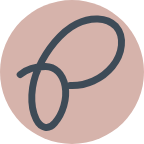
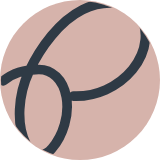
Assinatura de e-mail: símbolo do círculo cortado, ícones (WhatsApp, Instagram, site, e-mail) e campos editáveis
Claude-Session: https://claude.ai/code/session_01XUb1V68GFiNpZWkJhbcr9d

diff --git a/public/assinatura.html b/public/assinatura.html
@@ -7,20 +7,24 @@
 <title>Assinatura de e-mail · Planê</title>
 <link rel="icon" href="./favicon.ico?v=6">
 <style>
-  :root { --azul: #3e4b57; --rose: #a88a80; --rosa: #d6b3ab; --blush: #f4e8e5; --papel: #f5f1ee; --muted: #6b7680; }
+  :root { --azul: #3e4b57; --rose: #a88a80; --rosa: #d6b3ab; --blush: #f4e8e5; --papel: #f5f1ee; --muted: #6b7680; --line: #eadfdb; }
   * { box-sizing: border-box; }
   body { margin: 0; background: var(--papel); color: var(--azul); font-family: Poppins, 'Segoe UI', Helvetica, Arial, sans-serif; }
-  main { max-width: 760px; margin: 0 auto; padding: 48px 16px 64px; display: flex; flex-direction: column; gap: 28px; }
+  main { max-width: 760px; margin: 0 auto; padding: 48px 16px 64px; display: flex; flex-direction: column; gap: 24px; }
   h1 { margin: 0; font-size: 30px; letter-spacing: -0.02em; }
   h1 em { color: var(--rose); font-weight: 400; }
   .box { background: #fff; border-radius: 20px; padding: 28px; box-shadow: 0 18px 40px -30px rgba(47, 58, 69, .5); }
-  .label { font-size: 12px; font-weight: 600; letter-spacing: .14em; text-transform: uppercase; color: var(--rose); margin: 0 0 16px; }
+  .label { font-size: 12px; font-weight: 600; letter-spacing: .14em; text-transform: uppercase; color: var(--rose); margin: 0 0 18px; }
+  .fields { display: grid; grid-template-columns: repeat(3, minmax(0, 1fr)); gap: 14px; }
+  @media (max-width: 640px) { .fields { grid-template-columns: 1fr; } }
+  .fields label { display: flex; flex-direction: column; gap: 6px; font-size: 13px; font-weight: 600; }
+  .fields input { font: inherit; font-size: 14px; font-weight: 400; color: var(--azul); padding: 11px 14px; border: 1px solid var(--line); border-radius: 12px; background: var(--papel); }
+  .preview { padding: 26px; border: 1px dashed var(--line); border-radius: 16px; overflow-x: auto; }
   .btn { display: inline-flex; align-items: center; gap: 8px; border: 0; border-radius: 999px; background: var(--azul); color: #fff; font: inherit; font-weight: 600; font-size: 15px; padding: 14px 26px; cursor: pointer; }
   .btn.done { background: var(--rose); }
-  ol { margin: 0; padding-left: 22px; line-height: 1.7; }
-  ol b { color: var(--azul); }
-  .muted { color: var(--muted); font-size: 14px; line-height: 1.6; margin: 0; }
   .row { display: flex; flex-wrap: wrap; align-items: center; gap: 14px; margin-top: 20px; }
+  ol { margin: 0; padding-left: 22px; line-height: 1.7; }
+  .muted { color: var(--muted); font-size: 14px; line-height: 1.6; margin: 0; }
 </style>
 </head>
 <body>
@@ -28,58 +32,79 @@
   <h1>assinatura de <em>e-mail</em></h1>
 
   <div class="box">
-    <p class="label">prévia</p>
-    <!-- a assinatura (só tabelas e estilos na linha, como o Gmail aceita) -->
-    <div id="sig">
-      <table cellpadding="0" cellspacing="0" border="0" style="border-collapse:collapse;font-family:Helvetica,Arial,sans-serif;color:#3e4b57;">
-        <tr>
-          <td style="padding:0 18px 0 0;vertical-align:middle;">
-            <a href="https://useplane.com.br" style="text-decoration:none;"><img src="https://useplane.com.br/marca/assinatura.png" width="64" height="64" alt="Planê" style="display:block;width:64px;height:64px;border:0;"></a>
-          </td>
-          <td style="padding:0 0 0 18px;border-left:2px solid #d6b3ab;vertical-align:middle;">
-            <div style="font-size:17px;font-weight:bold;letter-spacing:-0.2px;line-height:1.3;color:#3e4b57;">Laís</div>
-            <div style="font-size:13px;line-height:1.4;color:#a88a80;">criadora do Planê · gestão para quem projeta</div>
-            <div style="font-size:13px;line-height:1.7;padding-top:6px;color:#6b7680;">
-              <a href="https://useplane.com.br" style="color:#3e4b57;text-decoration:none;font-weight:bold;">useplane.com.br</a>
-              <span style="color:#d6b3ab;">&nbsp;·&nbsp;</span>
-              <a href="https://instagram.com/sou.plane" style="color:#6b7680;text-decoration:none;">@sou.plane</a>
-              <span style="color:#d6b3ab;">&nbsp;·&nbsp;</span>
-              <a href="mailto:equipe.plane@gmail.com" style="color:#6b7680;text-decoration:none;">equipe.plane@gmail.com</a>
-            </div>
-          </td>
-        </tr>
-      </table>
+    <p class="label">seus dados</p>
+    <div class="fields">
+      <label>Nome <input id="nome" value="Laís"></label>
+      <label>Linha de baixo <input id="cargo" value="criadora do Planê"></label>
+      <label>WhatsApp (com DDD) <input id="wpp" inputmode="tel" placeholder="(31) 99999-9999"></label>
     </div>
+  </div>
+
+  <div class="box">
+    <p class="label">prévia</p>
+    <div class="preview"><div id="sig"></div></div>
     <div class="row">
       <button class="btn" id="copy" type="button">copiar assinatura</button>
-      <p class="muted">Copia já com o logo, as cores e os links.</p>
+      <p class="muted">Copia com o logo, os ícones e os links.</p>
     </div>
   </div>
 
   <div class="box">
     <p class="label">como colocar no Gmail (computador)</p>
     <ol>
-      <li>Toque em <b>copiar assinatura</b> aqui em cima.</li>
-      <li>Abra o Gmail no computador e clique na <b>engrenagem</b> (canto de cima, à direita) → <b>Ver todas as configurações</b>.</li>
-      <li>Na aba <b>Geral</b>, desça até <b>Assinatura</b> → <b>Criar nova</b> → dê o nome <b>Planê</b>.</li>
-      <li>Clique na caixa de texto ao lado e cole (<b>Ctrl + V</b>, ou <b>Cmd + V</b> no Mac).</li>
-      <li>Logo abaixo, em <b>Padrões de assinatura</b>, escolha <b>Planê</b> em “para novos e-mails” e também em “ao responder/encaminhar”.</li>
-      <li>Marque a opção de <b>inserir a assinatura antes do texto citado</b>, se aparecer.</li>
-      <li>Desça até o fim da página e clique em <b>Salvar alterações</b>.</li>
+      <li>Preencha seu WhatsApp acima e toque em <b>copiar assinatura</b>.</li>
+      <li>No Gmail do computador: <b>engrenagem</b> (canto de cima, à direita) → <b>Ver todas as configurações</b>.</li>
+      <li>Aba <b>Geral</b> → desça até <b>Assinatura</b> → <b>Criar nova</b> → nome <b>Planê</b>.</li>
+      <li>Clique na caixa de texto e cole (<b>Ctrl + V</b>, ou <b>Cmd + V</b> no Mac). Se já tinha uma assinatura, apague a antiga antes.</li>
+      <li>Em <b>Padrões de assinatura</b>, escolha <b>Planê</b> em “para novos e-mails” e em “ao responder/encaminhar”.</li>
+      <li>Desça até o fim e clique em <b>Salvar alterações</b>.</li>
     </ol>
-    <p class="muted" style="margin-top:14px;">No celular, o app do Gmail só aceita assinatura em texto. Para ter a assinatura bonita, configure pelo computador: ela vale também quando você responde pelo Gmail no navegador do celular.</p>
+    <p class="muted" style="margin-top:14px;">O app do Gmail no celular só aceita assinatura em texto; configurando no computador, ela vale nos e-mails enviados pelo Gmail no navegador.</p>
   </div>
 </main>
 <script>
-  const btn = document.getElementById('copy')
+  const SITE = 'https://useplane.com.br'
+  const $ = (id) => document.getElementById(id)
+  const esc = (t) => t.replace(/&/g, '&amp;').replace(/</g, '&lt;').replace(/>/g, '&gt;')
+  // lembra o que foi digitado neste aparelho
+  try {
+    const saved = JSON.parse(localStorage.getItem('plane-assinatura') || '{}')
+    for (const k of ['nome', 'cargo', 'wpp']) if (saved[k] != null) $(k).value = saved[k]
+  } catch {}
+
+  const icon = (href, img, alt) =>
+    `<td style="padding:0 8px 0 0;"><a href="${href}" style="text-decoration:none;"><img src="${SITE}/marca/${img}" width="28" height="28" alt="${alt}" style="display:block;width:28px;height:28px;border:0;"></a></td>`
+
+  function build() {
+    const nome = $('nome').value.trim() || 'Laís'
+    const cargo = $('cargo').value.trim()
+    const digits = $('wpp').value.replace(/\D/g, '')
+    const wpp = digits ? `https://wa.me/${digits.length <= 11 ? '55' + digits : digits}` : ''
+    try { localStorage.setItem('plane-assinatura', JSON.stringify({ nome, cargo, wpp: $('wpp').value })) } catch {}
+    $('sig').innerHTML = `<table cellpadding="0" cellspacing="0" border="0" style="border-collapse:collapse;font-family:Helvetica,Arial,sans-serif;color:#3e4b57;">
+  <tr>
+    <td style="padding:0 20px 0 0;vertical-align:middle;">
+      <a href="${SITE}" style="text-decoration:none;"><img src="${SITE}/marca/assinatura.png" width="80" height="80" alt="Planê" style="display:block;width:80px;height:80px;border:0;"></a>
+    </td>
+    <td style="padding:2px 0 2px 20px;border-left:2px solid #d6b3ab;vertical-align:middle;">
+      <div style="font-size:18px;font-weight:bold;letter-spacing:-0.2px;line-height:1.25;color:#3e4b57;">${esc(nome)}</div>
+      ${cargo ? `<div style="font-size:13px;line-height:1.4;color:#a88a80;padding-top:2px;">${esc(cargo)}</div>` : ''}
+      <table cellpadding="0" cellspacing="0" border="0" style="border-collapse:collapse;margin-top:12px;"><tr>
+        ${wpp ? icon(wpp, 'ic-whatsapp.png', 'WhatsApp') : ''}${icon('https://instagram.com/sou.plane', 'ic-instagram.png', 'Instagram')}${icon(SITE, 'ic-site.png', 'Site')}${icon('mailto:equipe.plane@gmail.com', 'ic-email.png', 'E-mail')}
+      </tr></table>
+    </td>
+  </tr>
+</table>`
+  }
+  for (const k of ['nome', 'cargo', 'wpp']) $(k).addEventListener('input', build)
+  build()
+
+  const btn = $('copy')
   btn.addEventListener('click', async () => {
-    const el = document.getElementById('sig')
+    const el = $('sig')
     try {
-      const html = el.innerHTML
-      const text = el.innerText
-      await navigator.clipboard.write([new ClipboardItem({ 'text/html': new Blob([html], { type: 'text/html' }), 'text/plain': new Blob([text], { type: 'text/plain' }) })])
+      await navigator.clipboard.write([new ClipboardItem({ 'text/html': new Blob([el.innerHTML], { type: 'text/html' }), 'text/plain': new Blob([el.innerText], { type: 'text/plain' }) })])
     } catch {
-      // navegadores antigos: seleciona e copia do jeito clássico
       const r = document.createRange()
       r.selectNodeContents(el)
       const s = getSelection()
